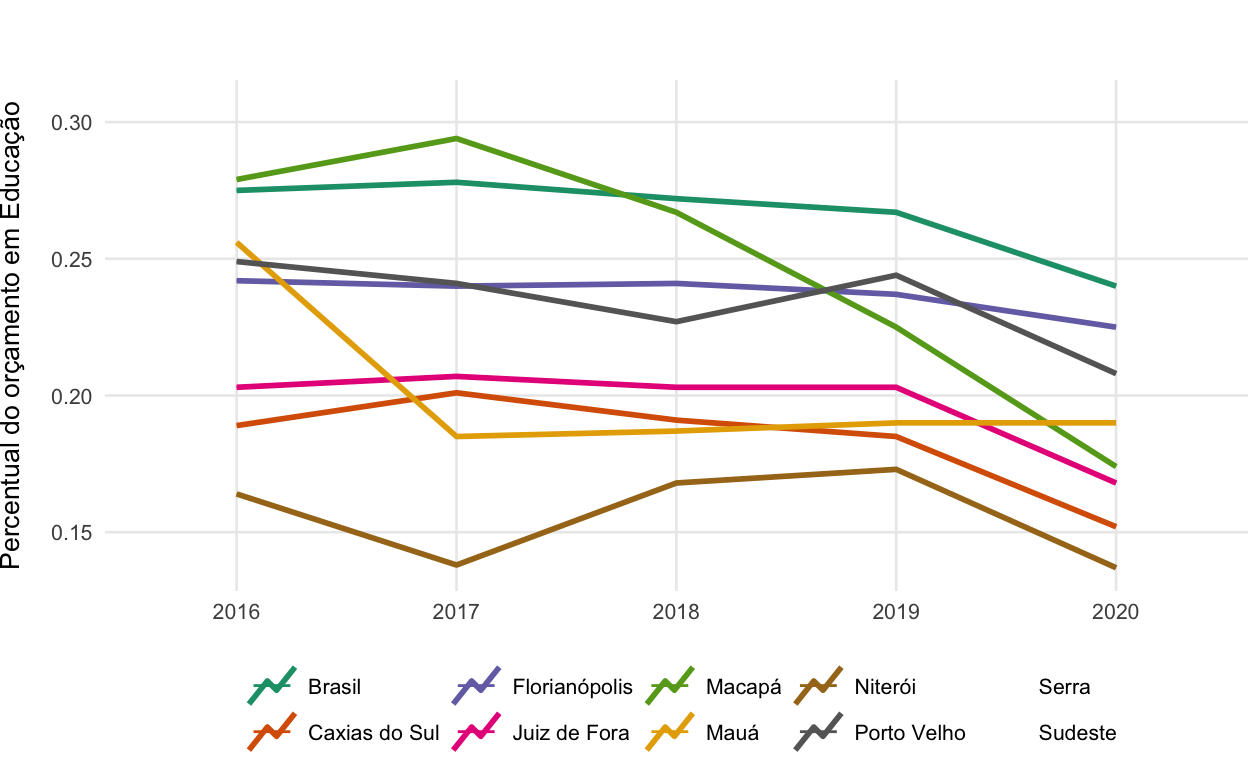
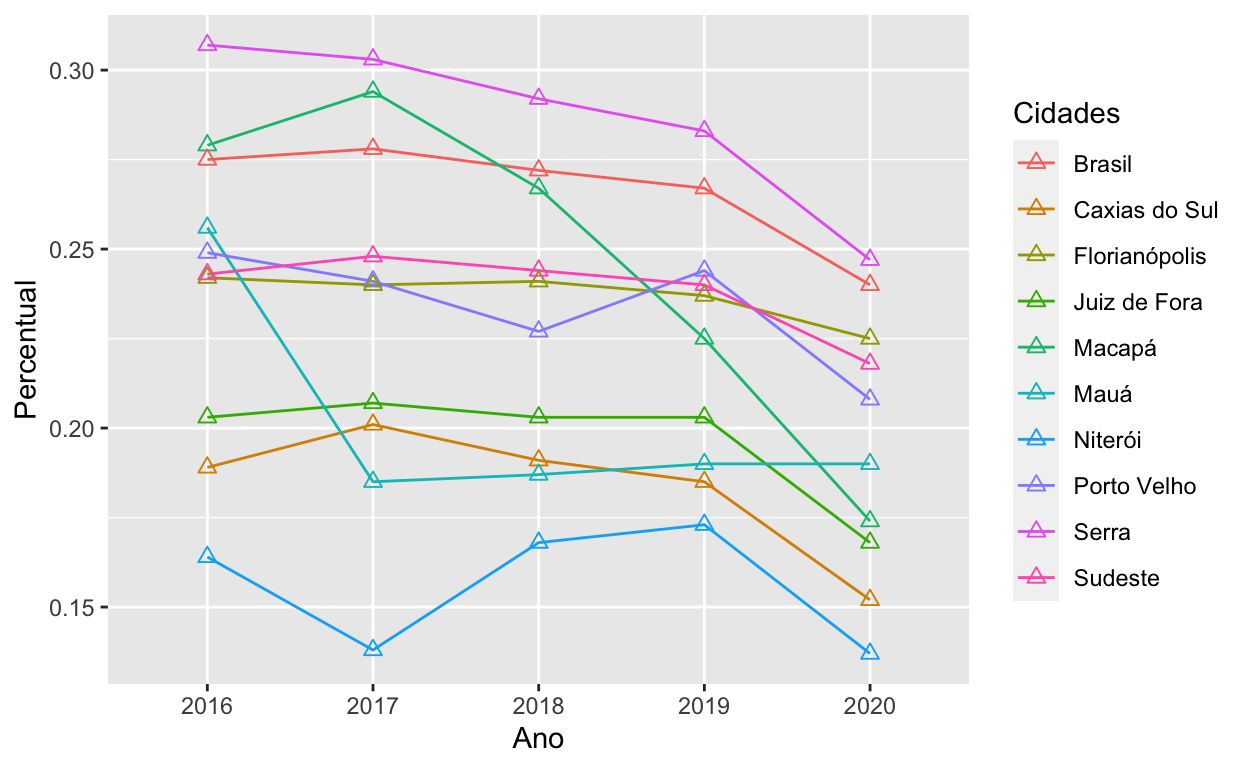
site

diff --git a/posts/dados/index.html b/posts/dados/index.html
@@ -2107,8 +2107,8 @@ document.addEventListener('DOMContentLoaded', function() {
 <div class="d-article">
 <p>Análise inicial dos dados.</p>
 <div class="layout-chunk" data-layout="l-body">
-<div id="htmlwidget-b869d2d94c0a9151bc17" style="width:624px;height:384px;" class="leaflet html-widget"></div>
-<script type="application/json" data-for="htmlwidget-b869d2d94c0a9151bc17">{"x":{"options":{"crs":{"crsClass":"L.CRS.EPSG3857","code":null,"proj4def":null,"projectedBounds":null,"options":{}}},"calls":[{"method":"addTiles","args":["//{s}.tile.openstreetmap.org/{z}/{x}/{y}.png",null,null,{"minZoom":0,"maxZoom":18,"tileSize":256,"subdomains":"abc","errorTileUrl":"","tms":false,"noWrap":false,"zoomOffset":0,"zoomReverse":false,"opacity":1,"zIndex":1,"detectRetina":false,"attribution":"&copy; <a href=\"http://openstreetmap.org\">OpenStreetMap<\/a> contributors, <a href=\"http://creativecommons.org/licenses/by-sa/2.0/\">CC-BY-SA<\/a>"}]},{"method":"addMarkers","args":[[-21.7289999,-8.9759346,-20.1613061,-29.0756353,-22.917929,0.1021154,-21.757686,-27.6014342,-20.378454,-23.6676171],[-43.522607,-66.7692131,-40.424577,-51.3263337,-43.078987,-51.2369517,-41.3270377,-48.4924327,-40.3235557,-46.4417617],null,null,null,{"interactive":true,"draggable":false,"keyboard":true,"title":"","alt":"","zIndexOffset":0,"opacity":1,"riseOnHover":false,"riseOffset":250},["Juiz de Fora","Porto Velho","Serra","Caxias do Sul","Niterói","Macapá","Campos dos Goytacazes","Florianópolis","Vila Velha","Mauá"],null,null,null,null,{"interactive":false,"permanent":false,"direction":"auto","opacity":1,"offset":[0,0],"textsize":"10px","textOnly":false,"className":"","sticky":true},null]}],"limits":{"lat":[-29.0756353,0.1021154],"lng":[-66.7692131,-40.3235557]}},"evals":[],"jsHooks":[]}</script>
+<div id="htmlwidget-696309c840ffca5a5bf4" style="width:624px;height:384px;" class="leaflet html-widget"></div>
+<script type="application/json" data-for="htmlwidget-696309c840ffca5a5bf4">{"x":{"options":{"crs":{"crsClass":"L.CRS.EPSG3857","code":null,"proj4def":null,"projectedBounds":null,"options":{}}},"calls":[{"method":"addTiles","args":["//{s}.tile.openstreetmap.org/{z}/{x}/{y}.png",null,null,{"minZoom":0,"maxZoom":18,"tileSize":256,"subdomains":"abc","errorTileUrl":"","tms":false,"noWrap":false,"zoomOffset":0,"zoomReverse":false,"opacity":1,"zIndex":1,"detectRetina":false,"attribution":"&copy; <a href=\"http://openstreetmap.org\">OpenStreetMap<\/a> contributors, <a href=\"http://creativecommons.org/licenses/by-sa/2.0/\">CC-BY-SA<\/a>"}]},{"method":"addMarkers","args":[[-21.7289999,-8.9759346,-20.1613061,-29.0756353,-22.917929,0.1021154,-21.757686,-27.6014342,-20.378454,-23.6676171],[-43.522607,-66.7692131,-40.424577,-51.3263337,-43.078987,-51.2369517,-41.3270377,-48.4924327,-40.3235557,-46.4417617],null,null,null,{"interactive":true,"draggable":false,"keyboard":true,"title":"","alt":"","zIndexOffset":0,"opacity":1,"riseOnHover":false,"riseOffset":250},["Juiz de Fora","Porto Velho","Serra","Caxias do Sul","Niterói","Macapá","Campos dos Goytacazes","Florianópolis","Vila Velha","Mauá"],null,null,null,null,{"interactive":false,"permanent":false,"direction":"auto","opacity":1,"offset":[0,0],"textsize":"10px","textOnly":false,"className":"","sticky":true},null]}],"limits":{"lat":[-29.0756353,0.1021154],"lng":[-66.7692131,-40.3235557]}},"evals":[],"jsHooks":[]}</script>
 </div>
 <h1 id="receita-orçamentária">Receita Orçamentária</h1>
 <div class="layout-chunk" data-layout="l-body">
@@ -2309,9 +2309,9 @@ Campos dos Goytacazes
 <div class="layout-chunk" data-layout="l-body-outset">
 <p><img src="Dados_files/figure-html5/unnamed-chunk-4-1.png" width="624" data-distill-preview=1 /></p>
 </div>
-<p>Percentual do orçamento em Educação</p>
+<p>Percentual do orçamento empenhado em Educação</p>
 <div class="layout-chunk" data-layout="l-body">
-<p><img src="Dados_files/figure-html5/unnamed-chunk-5-1.png" width="624" /></p>
+<p><img src="Dados_files/figure-html5/unnamed-chunk-5-1.png" width="624" style="display: block; margin: auto;" /></p>
 </div>
 <!-- # Correlações -->
 <!-- ```{r, fig.align='center'} -->

diff --git a/posts/2022-03-08-domjos/index.html b/posts/2022-03-08-domjos/index.html
@@ -2102,20 +2102,17 @@ document.addEventListener('DOMContentLoaded', function() {
 <p>A partir de 2022, a escola passou a oferecer educação em tempo integral para o ensino fundamental a partir de uma parceria entre a Secretaria Municipal de Educação e o Espaço Nova Geração, um projeto vinculado ao Pacto Niterói Contra a Violência. A unidade trabalha, com os alunos, projetos que visam a valorização dos moradores da comunidade e o conhecimento da história da Vila Ipiranga.</p>
 <h1 id="obras">Obras</h1>
 <p>A seguir apresentam-se uma imagem da obra para adequação dos espaços para atendimento dos estudantes em tempo integral.</p>
-<div class="layout-chunk" data-layout="l-body">
-
-</div>
 <figure>
-<img src="domjose2.jpeg" alt="Adequação de Pias" /><figcaption aria-hidden="true">Adequação de Pias</figcaption>
+<img src="fotosobra/domjose2.jpeg" alt="Adequação de Pias" /><figcaption aria-hidden="true">Adequação de Pias</figcaption>
 </figure>
 <figure>
-<img src="domjose3.jpeg" alt="Acabamento das Paredes" /><figcaption aria-hidden="true">Acabamento das Paredes</figcaption>
+<img src="fotosobra/domjose3.jpeg" alt="Acabamento das Paredes" /><figcaption aria-hidden="true">Acabamento das Paredes</figcaption>
 </figure>
 <figure>
-<img src="domjose5.jpeg" alt="Acabamento das Paredes" /><figcaption aria-hidden="true">Acabamento das Paredes</figcaption>
+<img src="fotosobra/domjose5.jpeg" alt="Acabamento das Paredes" /><figcaption aria-hidden="true">Acabamento das Paredes</figcaption>
 </figure>
 <figure>
-<img src="domjose6.jpeg" alt="Cobertura das áreas de convivência" /><figcaption aria-hidden="true">Cobertura das áreas de convivência</figcaption>
+<img src="fotosobra/domjose6.jpeg" alt="Cobertura das áreas de convivência" /><figcaption aria-hidden="true">Cobertura das áreas de convivência</figcaption>
 </figure>
 <div class="sourceCode" id="cb1"><pre class="sourceCode r distill-force-highlighting-css"><code class="sourceCode r"></code></pre></div>
 <!--radix_placeholder_article_footer-->
